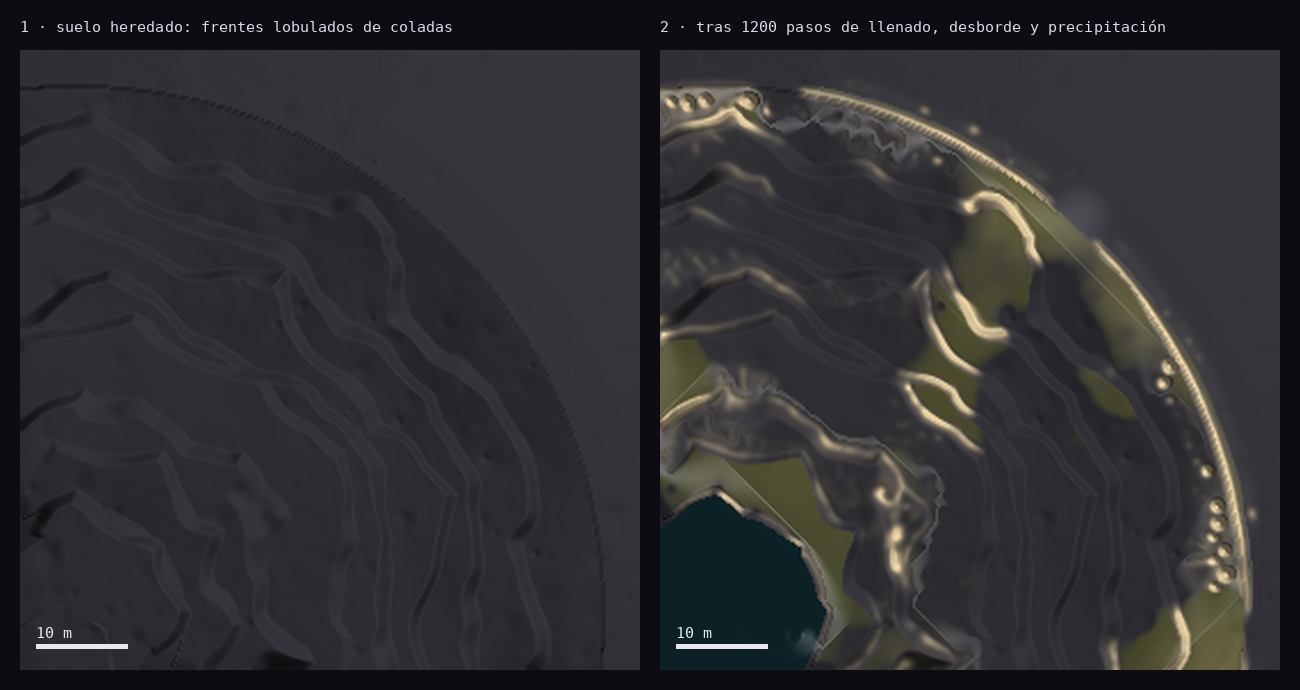
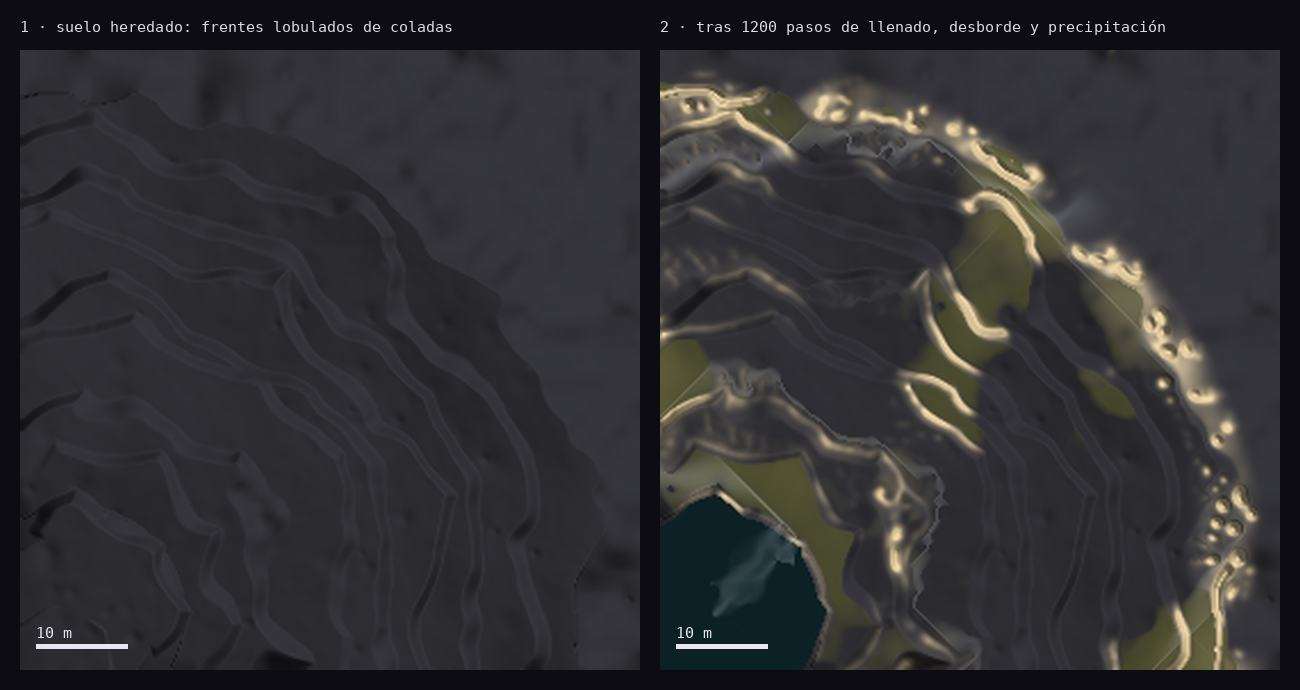
Umbral: Cala Interior, correcciones antes de los renders finales
Pared del fondo en rampa irregular (sin arco perfecto), máscaras de algas y
humedad limitadas a superficies planas (sin peines en las cortinas), agua
continua bajo el travertino y travertino iluminado menos quemado.

Claude-Session: https://claude.ai/code/session_01UWG28K6Ps5FyUb8TjhqLQm

Changed region(s): [[0.4923, 0.0913, 0.9846, 0.9739], [0.5538, 0.7304, 0.6462, 0.9435], [0.5846, 0.5478, 0.6154, 0.5783]]

diff --git a/explorations/umbral/cala3d/page/index.html b/explorations/umbral/cala3d/page/index.html
@@ -134,8 +134,8 @@ ul.plain li::before{content:"";position:absolute;left:0;top:.62em;width:8px;heig
       <div class="row"><h3>Formaciones minerales</h3><span class="v ok">Mejora clara</span><p>Las terrazas ya no son anillos. Tienen la irregularidad de algo que creció: labios lobulados, pozas de tamaños distintos y filas que se funden. Falta lo que la simulación aún no hace: labios que vuelan sobre la cortina, coladas laterales y microgours nítidos en las caras.</p></div>
       <div class="row"><h3>Roca y abertura</h3><span class="v mid">Media</span><p>Las columnas del tragaluz y los bloques del derrumbe son convincentes. Las paredes lejanas aún se leen como bandas horizontales demasiado continuas, y el basalto de cerca necesita una pasada de escultura a mano.</p></div>
       <div class="row"><h3>Materiales</h3><span class="v mid">Media</span><p>Los cuatro materiales se distinguen y responden a la marea y al caudal. Pero son procedurales sin fotografía: el travertino iluminado tiende al blanco plano y el basalto al gris oscuro uniforme.</p></div>
-      <div class="row"><h3>Composición</h3><span class="v mid">Media</span><p>A en bajamar y B en las dos mareas tienen un centro claro. A en pleamar, mirando a la laguna, es la más débil: el sol cae entre la cámara y el muro del fondo y deja medio encuadre en sombra.</p></div>
-      <div class="row"><h3>Defectos visibles</h3><span class="v weak">A corregir</span><p>Tres:</p><ul class="plain"><li>El borde superior del anfiteatro es un arco demasiado perfecto, con algunas bolas de precipitado.</li><li>La bruma vela un poco las imágenes de la cámara B.</li><li>Las raíces y los helechos apenas se ven a esta resolución.</li></ul></div>
+      <div class="row"><h3>Composición</h3><span class="v mid">Media</span><p>B tiene el mejor encuadre de las dos mareas: tragaluz, derrumbe y boca del tubo en un solo eje. A en bajamar lee bien el anfiteatro pero el techo ocupa demasiado. A en pleamar enseña las gradas bajo el agua, aunque el derrumbe del primer plano pesa más de lo que debería.</p></div>
+      <div class="row"><h3>Defectos visibles</h3><span class="v weak">A corregir</span><p>Tres:</p><ul class="plain"><li>Algunas pozas tienen la orilla del agua dentada donde la malla del suelo es más gruesa que el labio.</li><li>La bruma vela un poco las imágenes de la cámara B.</li><li>Las raíces y los helechos apenas se ven a esta resolución.</li></ul></div>
     </div>
     <div class="side">
       <div class="notes">

diff --git a/explorations/umbral/cala3d/src/mats.py b/explorations/umbral/cala3d/src/mats.py
@@ -165,18 +165,22 @@ def travertine_material():
     # travertino joven (donde corre el agua) crema; viejo y seco, ocre manchado
     young = _math(g, "MULTIPLY", _math(g, "MULTIPLY", flow, 1.6), 1.0, clamp=True)
     old = ramp(g, n1, [(0.25, (0.24, 0.17, 0.10)), (0.55, (0.36, 0.27, 0.17)), (0.8, (0.30, 0.22, 0.14))])
-    fresh = ramp(g, n2, [(0.3, (0.62, 0.55, 0.43)), (0.7, (0.70, 0.64, 0.52))])
+    fresh = ramp(g, n2, [(0.3, (0.46, 0.40, 0.30)), (0.7, (0.54, 0.47, 0.36))])
     col = mix_col(g, young, old, fresh)
     # roca desnuda donde el travertino apenas tiene espesor
-    thin = _math(g, "SUBTRACT", 1.0, _math(g, "DIVIDE", dep, 0.12, clamp=True))
-    col = mix_col(g, _math(g, "MULTIPLY", thin, 0.85), col, (0.045, 0.043, 0.045))
+    thin = _math(g, "SUBTRACT", 1.0, _math(g, "DIVIDE", dep, 0.05, clamp=True))
+    col = mix_col(g, _math(g, "MULTIPLY", thin, 0.6), col, (0.10, 0.09, 0.08))
     # láminas de crecimiento en las cortinas
     steep = _math(g, "SUBTRACT", 1.0, _math(g, "MULTIPLY", nz, 1.3), clamp=True)
-    lam = g.n("ShaderNodeTexWave", Vector=pos, _wave_type="BANDS", _bands_direction="Z", Scale=2.2, Distortion=1.5, **{"Detail": 3.0}).outputs["Fac"]
-    col = mix_col(g, _math(g, "MULTIPLY", steep, _math(g, "MULTIPLY", lam, 0.12)), col, (0.20, 0.14, 0.08))
+    lam = g.n("ShaderNodeTexWave", Vector=pos, _wave_type="BANDS", _bands_direction="Z", Scale=2.2, Distortion=0.3, **{"Detail": 3.0}).outputs["Fac"]
+    # las cortinas: más oscuras y ocres que los labios, sin bandas
+    col = mix_col(g, _math(g, "MULTIPLY", steep, 0.35), col, (0.30, 0.22, 0.14))
     # tapetes de algas en el fondo de las pozas: dorados arriba (agua dulce), pardos abajo
     # el labio, donde precipita, queda claro; el fondo de la poza se cubre de biopelícula
+    # solo en superficies planas: en las cortinas la interpolación de los atributos dibujaría peines
+    flat = _math(g, "MULTIPLY", _math(g, "SUBTRACT", nz, 0.9), 12.0, clamp=True)
     mat_f = _math(g, "MULTIPLY", _math(g, "DIVIDE", depth, 0.03, clamp=True), _math(g, "ADD", 0.55, _math(g, "MULTIPLY", n2, 0.6)))
+    mat_f = _math(g, "MULTIPLY", mat_f, flat)
     upper = _math(g, "DIVIDE", _math(g, "ADD", z, 14.0), 12.0, clamp=True)
     algae = mix_col(g, upper, (0.06, 0.05, 0.02), (0.30, 0.17, 0.035))
     algae = mix_col(g, _math(g, "MULTIPLY", n1, 0.6), algae, (0.10, 0.12, 0.03))
@@ -184,7 +188,7 @@ def travertine_material():
     rim = _math(g, "MULTIPLY", _math(g, "MULTIPLY", flow, 2.5, clamp=True), _math(g, "SUBTRACT", 1.0, _math(g, "DIVIDE", depth, 0.02, clamp=True)))
     col = mix_col(g, _math(g, "MULTIPLY", rim, 0.6), col, (0.80, 0.74, 0.62))
     # mojado: oscurece y abrillanta
-    wetf = _math(g, "MAXIMUM", _math(g, "MULTIPLY", flow, 3.0, clamp=True), _math(g, "DIVIDE", depth, 0.02, clamp=True))
+    wetf = _math(g, "MAXIMUM", _math(g, "MULTIPLY", flow, 3.0, clamp=True), _math(g, "MULTIPLY", _math(g, "DIVIDE", depth, 0.02, clamp=True), flat))
     col = mix_col(g, _math(g, "MULTIPLY", wetf, 0.45), col, (0.0, 0.0, 0.0))
     rough = _math(g, "SUBTRACT", 0.62, _math(g, "MULTIPLY", wetf, 0.5))
     # microgours: pequeños lóbulos en el fondo de las pozas y crenulación en los labios

diff --git a/explorations/umbral/cala3d/src/gours.py b/explorations/umbral/cala3d/src/gours.py
@@ -104,7 +104,9 @@ for k, (fr, jump, nl, amp, pinch) in enumerate(FRONTS):
     amph += j * smoothstep(front - 0.9, front + 0.9, Rw)
 amph = np.minimum(amph, np.interp(R, [0, 9, 13], [-27.5, -27.0, -21.0]) + 40 * (R > 11))
 amph += 0.6 * (fbm(14, 3, 2) - 0.5) * smoothstep(12, 22, R)
-amph = np.where(R > 58, np.maximum(amph, np.interp(R, [58, 64, 72, 90], [3.0, 6.0, 12.0, 30.0])), amph)
+# el pie de la pared del fondo: sube en rampa irregular, no en un arco perfecto
+Rb = R + 6.0 * (fbm(11, 3, 90) - 0.5) * 2
+amph = np.maximum(amph, np.interp(Rb, [56, 64, 72, 90], [-2.0, 6.0, 13.0, 30.0], left=-1e3))
 # el canal del tubo volcánico, con bancos de lava a los lados (cota −20)
 rel = np.stack([X - TUNNEL_P[0], Y - TUNNEL_P[1]], -1)
 dp = np.abs(rel[..., 0] * TUNNEL_DIR[1] - rel[..., 1] * TUNNEL_DIR[0])

diff --git a/explorations/umbral/cala3d/src/build.py b/explorations/umbral/cala3d/src/build.py
@@ -132,7 +132,8 @@ def build():
     # agua: el mar que entra por el tubo y las pozas de las gradas por encima de él
     pools = (w - h > 0.03) & (w > SEA)
     wl = np.where(pools, w, SEA)
-    wmask = (wl - h > 0.005)
+    # el agua continúa un poco bajo el travertino: la orilla la dibuja el corte limpio con el suelo
+    wmask = binary_dilation(wl - h > 0.005, iterations=4)
     water = grid_mesh("Agua", wl, 64.0, CELLF, mask=wmask, step=1)
     set_attr(floor, "dep", np.clip(h - h0, 0, None))
     set_attr(floor, "flow", np.clip(np.log10(q / q.max() * 1e5 + 1) / 5, 0, 1))
